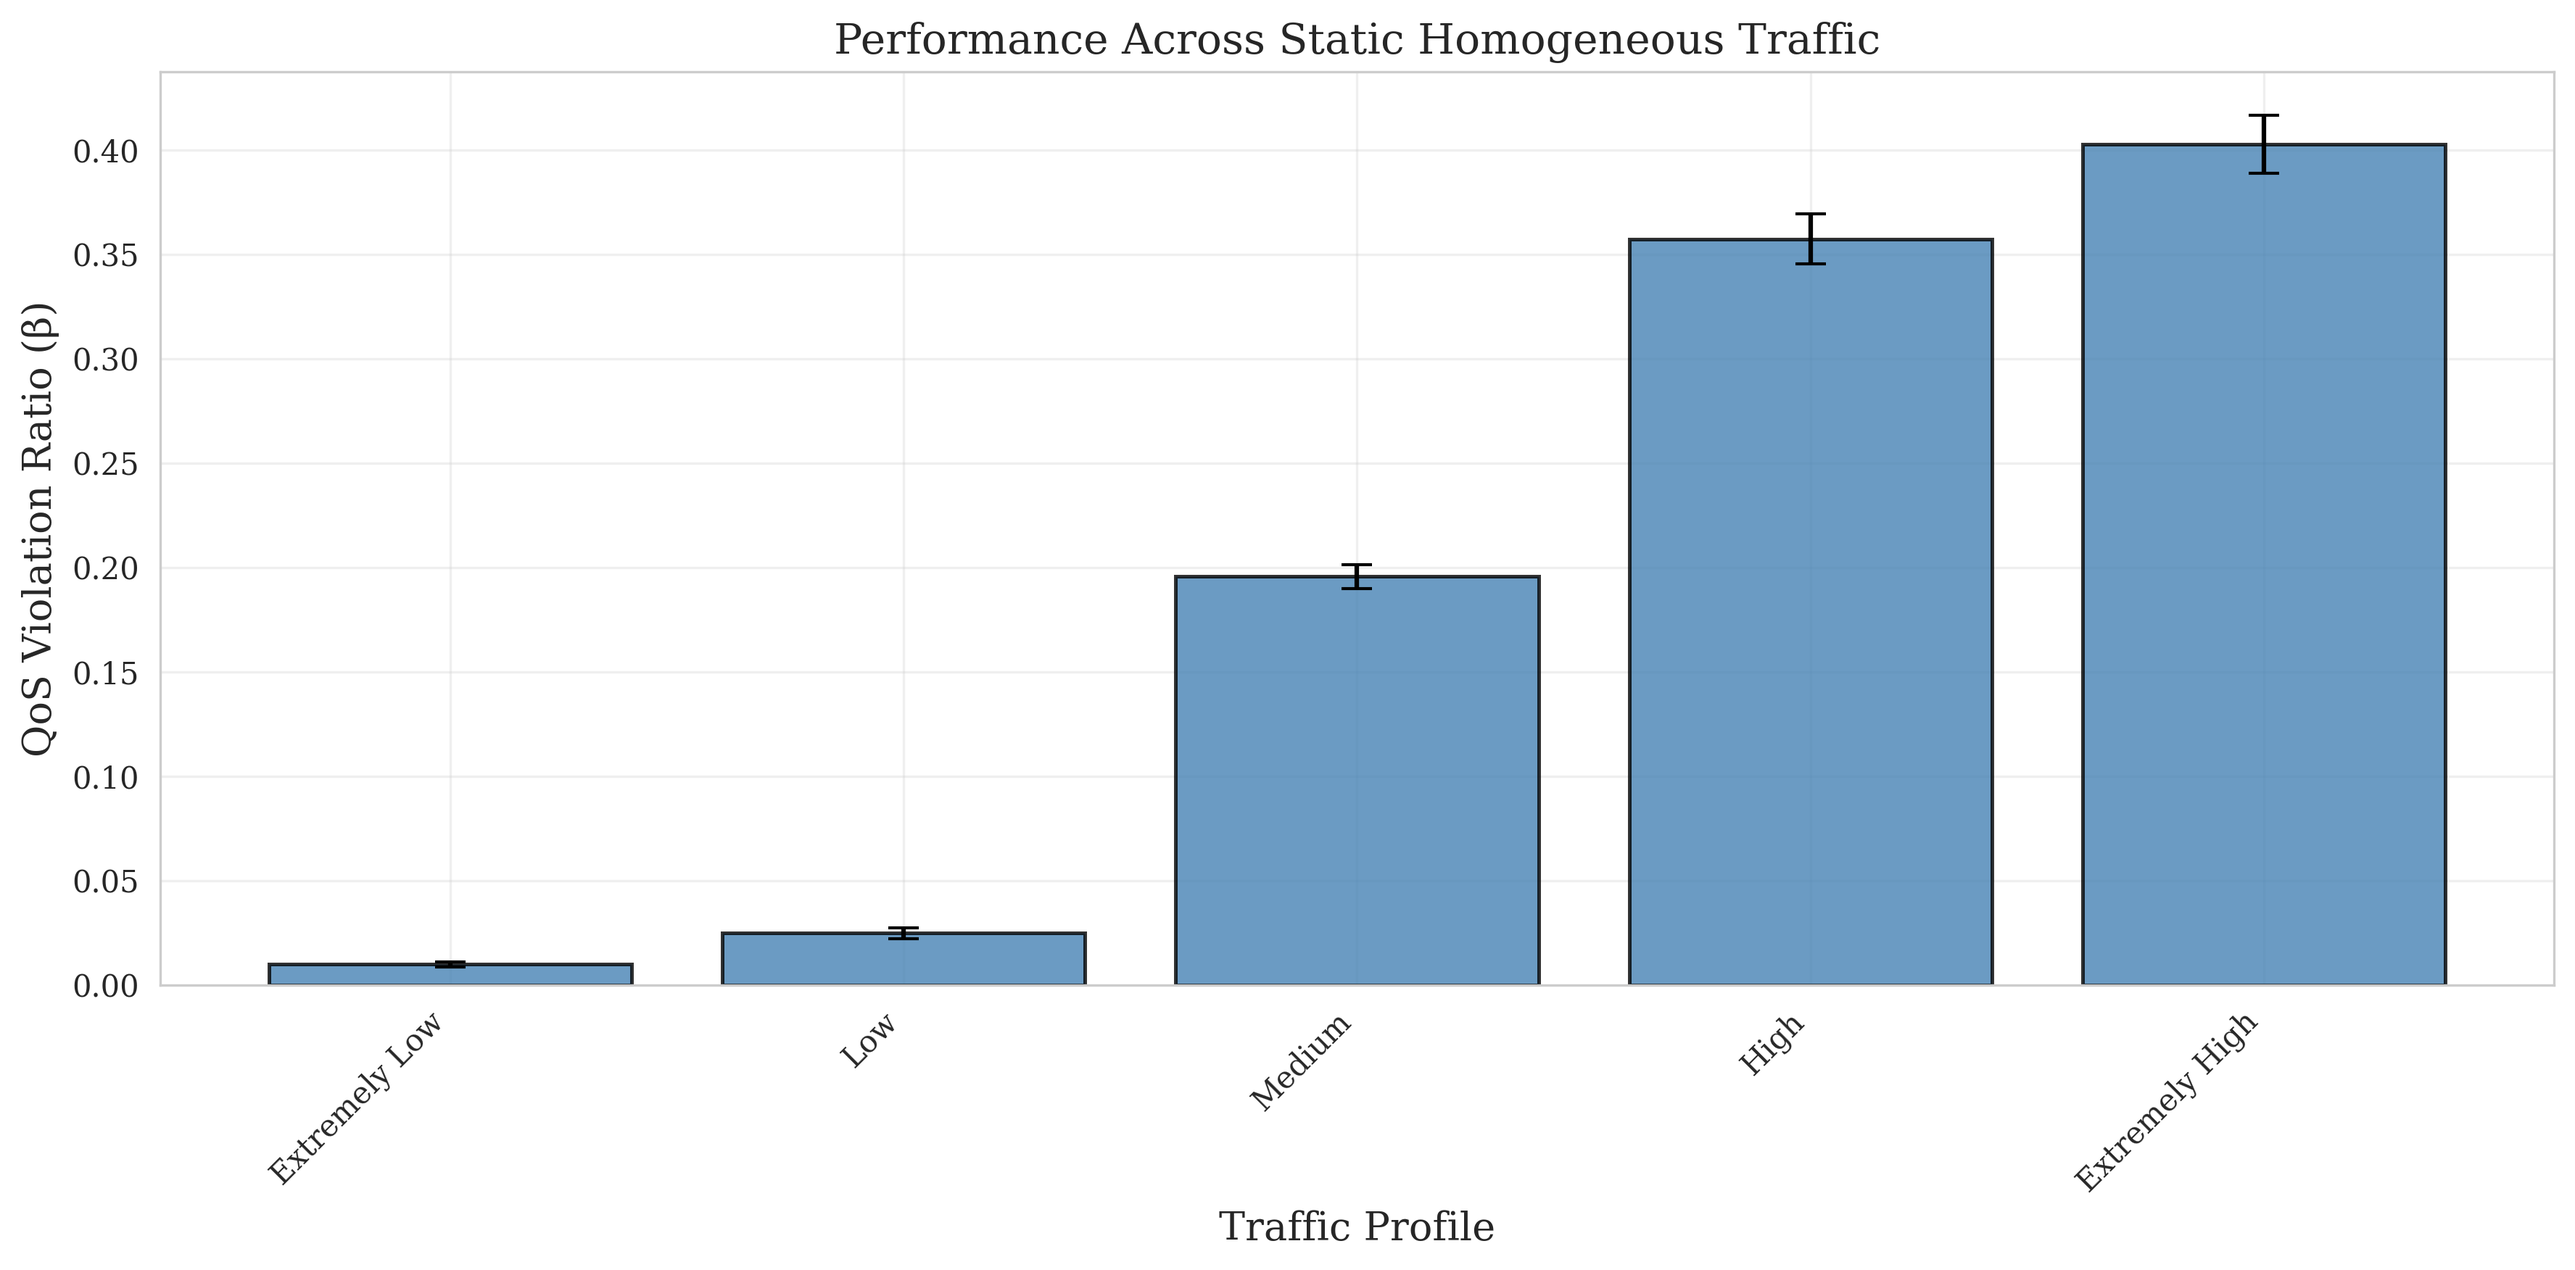
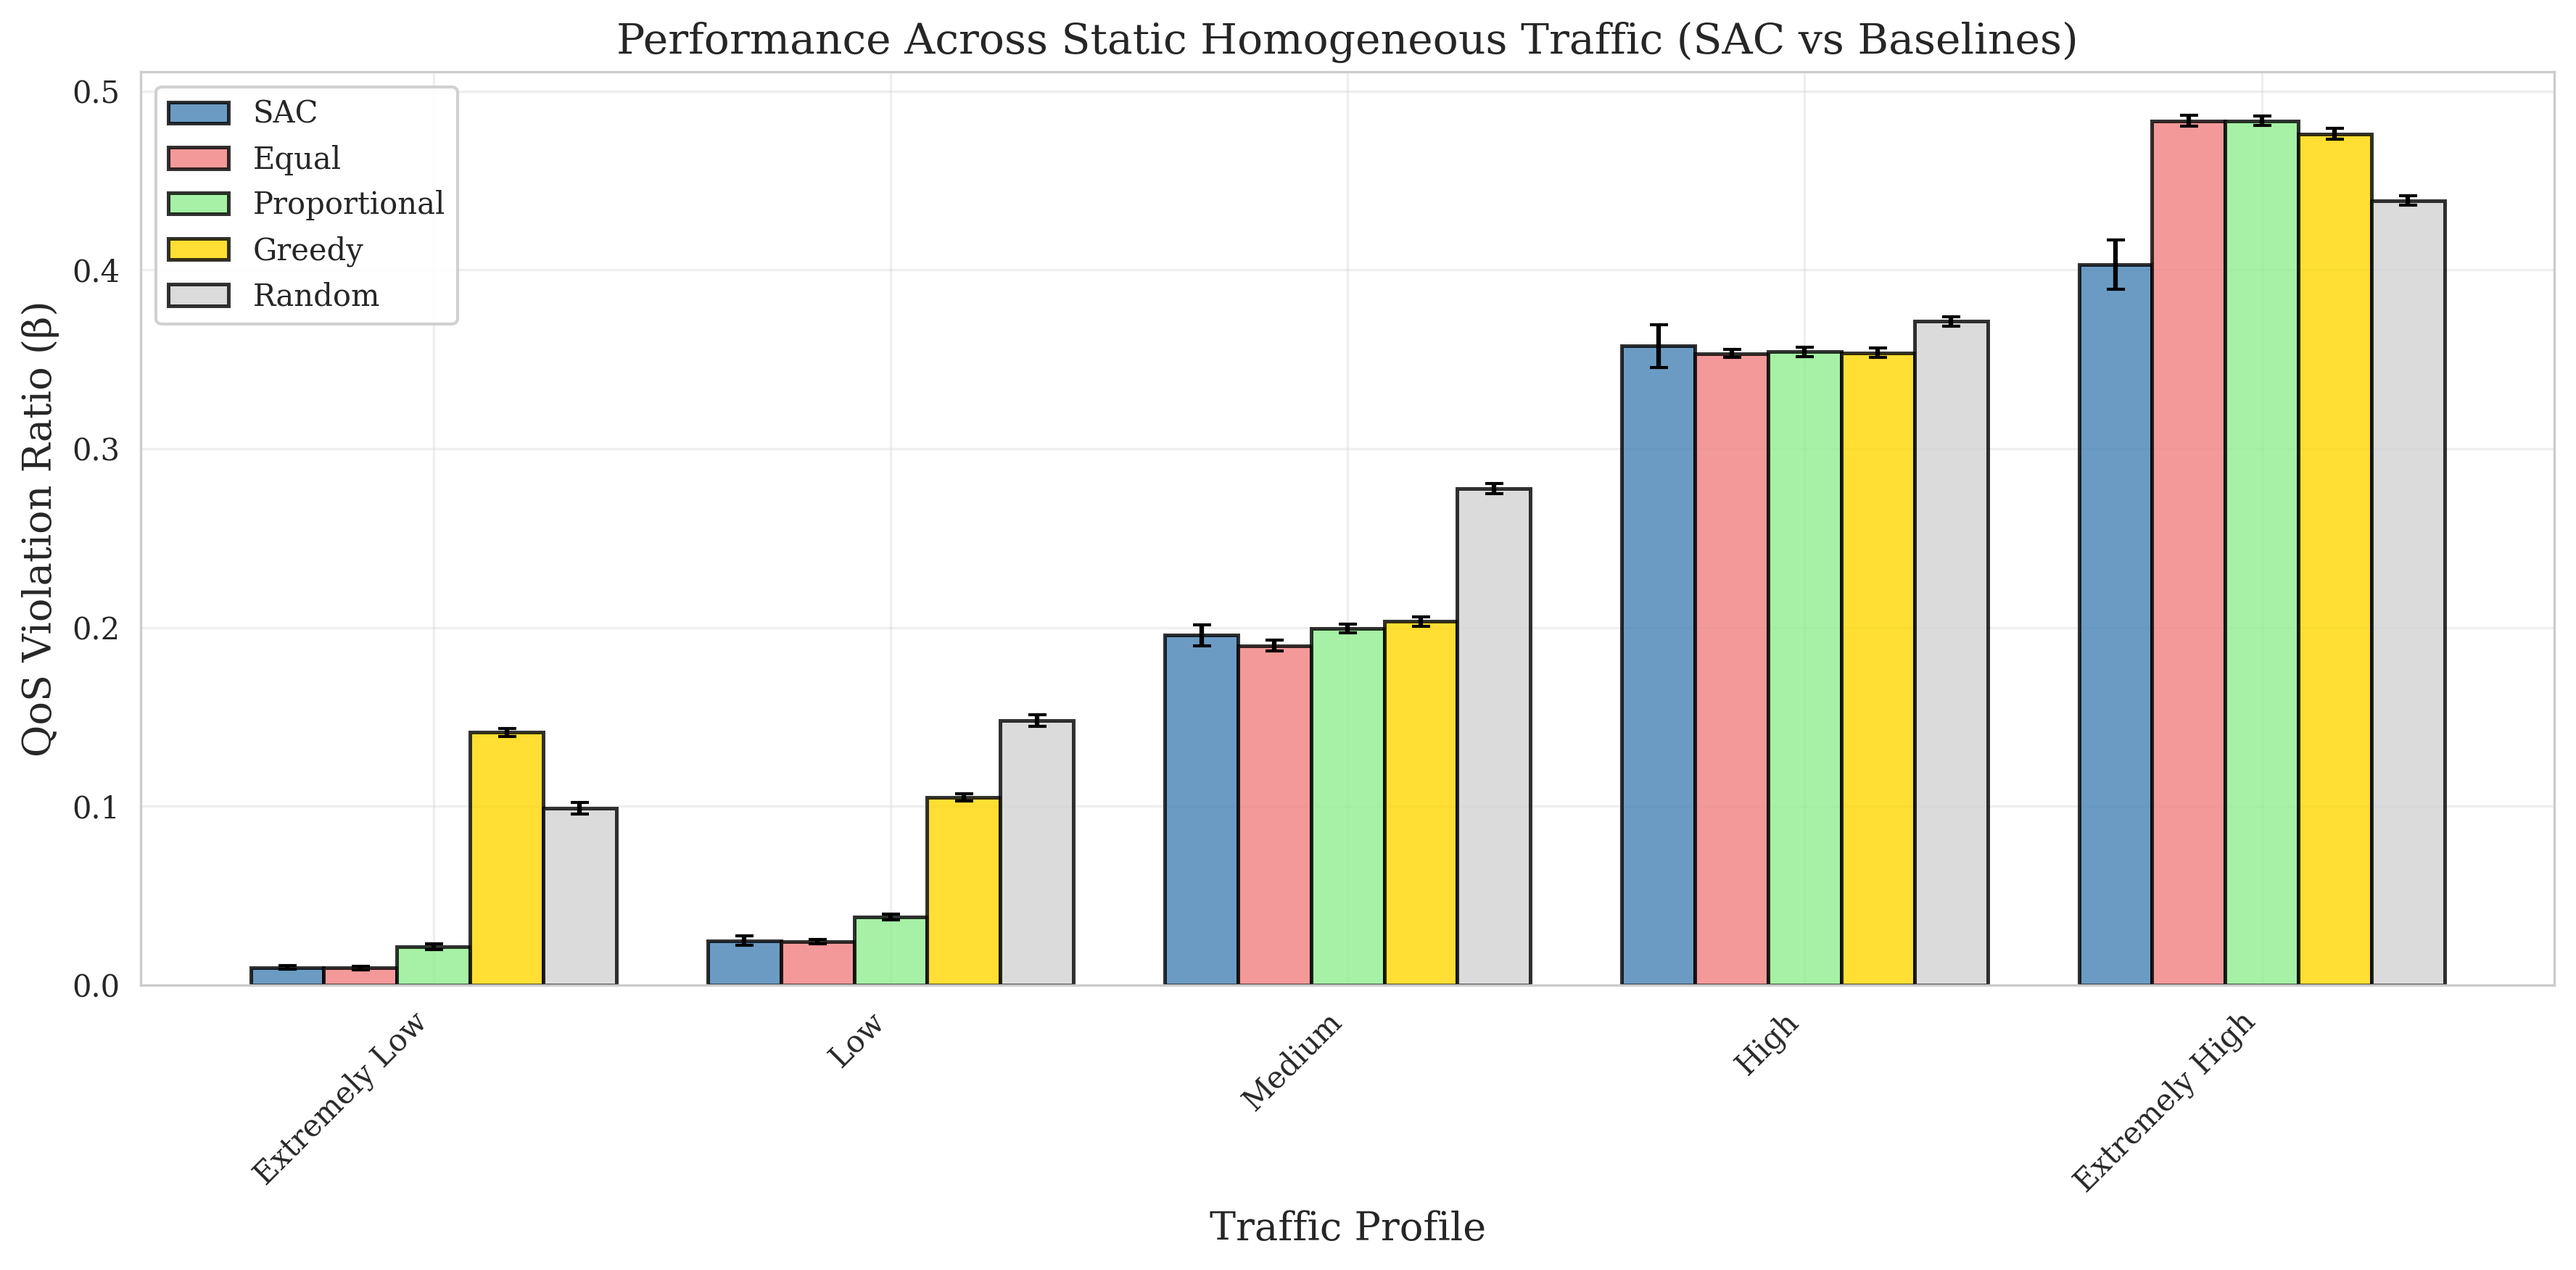
ver2.6

diff --git a/paper_figures/table_static_homogeneous.tex b/paper_figures/table_static_homogeneous.tex
@@ -6,11 +6,11 @@
 \toprule
 \textbf{Profile} & \textbf{SAC} & \textbf{Equal} & \textbf{Proportional} & \textbf{Greedy} & \textbf{Random} \\
 \midrule
-Extremely Low & 0.0098 $\pm$ 0.0012 & N/A & N/A & N/A & N/A \\
-Low & 0.0248 $\pm$ 0.0026 & N/A & N/A & N/A & N/A \\
-Medium & 0.1957 $\pm$ 0.0058 & N/A & N/A & N/A & N/A \\
-High & 0.3575 $\pm$ 0.0120 & N/A & N/A & N/A & N/A \\
-Extremely High & 0.4029 $\pm$ 0.0138 & N/A & N/A & N/A & N/A \\
+Extremely Low & 0.0098 $\pm$ 0.0012 & 0.0095 $\pm$ 0.0009 & 0.0215 $\pm$ 0.0016 & 0.1413 $\pm$ 0.0023 & 0.0989 $\pm$ 0.0033 \\
+Low & 0.0248 $\pm$ 0.0026 & 0.0241 $\pm$ 0.0012 & 0.0382 $\pm$ 0.0016 & 0.1051 $\pm$ 0.0020 & 0.1480 $\pm$ 0.0031 \\
+Medium & 0.1957 $\pm$ 0.0058 & 0.1898 $\pm$ 0.0030 & 0.1996 $\pm$ 0.0024 & 0.2034 $\pm$ 0.0026 & 0.2778 $\pm$ 0.0028 \\
+High & 0.3575 $\pm$ 0.0120 & 0.3533 $\pm$ 0.0022 & 0.3543 $\pm$ 0.0026 & 0.3537 $\pm$ 0.0027 & 0.3713 $\pm$ 0.0026 \\
+Extremely High & 0.4029 $\pm$ 0.0138 & 0.4835 $\pm$ 0.0030 & 0.4834 $\pm$ 0.0026 & 0.4762 $\pm$ 0.0031 & 0.4388 $\pm$ 0.0026 \\
 \bottomrule
 \end{tabular}
 \end{table}

diff --git a/paper_figures/table_heterogeneous.tex b/paper_figures/table_heterogeneous.tex
@@ -6,9 +6,9 @@
 \toprule
 \textbf{Scenario} & \textbf{SAC} & \textbf{Equal} & \textbf{Proportional} & \textbf{Greedy} & \textbf{Random} \\
 \midrule
-Low - High & 0.1436 $\pm$ 0.0083 & N/A & N/A & N/A & N/A \\
-Extremely_Low - Extremely_High & 0.1082 $\pm$ 0.0018 & N/A & N/A & N/A & N/A \\
-Medium - High & 0.2608 $\pm$ 0.0092 & N/A & N/A & N/A & N/A \\
+Low - High & 0.1436 $\pm$ 0.0083 & 0.2701 $\pm$ 0.0026 & 0.1411 $\pm$ 0.0021 & 0.1420 $\pm$ 0.0024 & 0.3080 $\pm$ 0.0048 \\
+Extremely_Low - Extremely_High & 0.1082 $\pm$ 0.0018 & 0.4034 $\pm$ 0.0034 & 0.1120 $\pm$ 0.0016 & 0.1154 $\pm$ 0.0024 & 0.3749 $\pm$ 0.0054 \\
+Medium - High & 0.2608 $\pm$ 0.0092 & 0.2899 $\pm$ 0.0024 & 0.2642 $\pm$ 0.0030 & 0.2688 $\pm$ 0.0029 & 0.3328 $\pm$ 0.0028 \\
 \bottomrule
 \end{tabular}
 \end{table}
